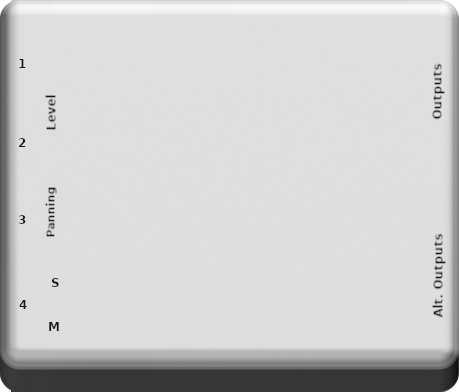
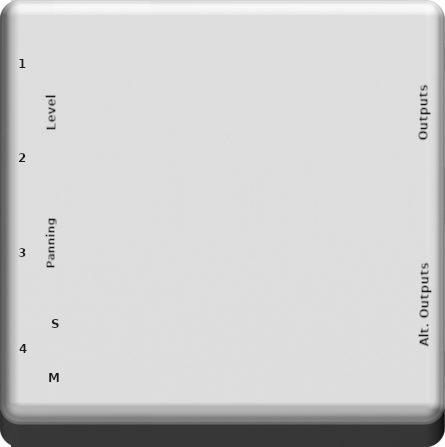
Update mixer to include level meter screens

diff --git a/plugins/mod-mixer.lv2/modgui/stylesheet-mod-mixer.css b/plugins/mod-mixer.lv2/modgui/stylesheet-mod-mixer.css
@@ -1,12 +1,12 @@
-/* MOD MIXER */
+/* MOD EQUALIZER */
 .mod-mixer{{{cns}}} {
     background-image: url(/resources/mod-mixer_bg.png{{{ns}}});
     background-position: center center;
     background-repeat: no-repeat;
     color: black;
-    height: 392px;
+    height: 447px;
     padding: 0;
-    width: 459px;
+    width: 445px;
     border-radius: 21px;
     position: absolute;
 }
@@ -35,21 +35,58 @@
     z-index: 20;
 }
 
+.mod-mixer{{{cns}}} .mod-control-group {
+    margin:2px 15px 0 !important;
+    position:relative;
+    text-align:center;
+    /*z-index:500 !important;*/
+}
+
+.mod-mixer{{{cns}}} .mod-display-group {
+    background-color: #aacc66;
+    margin: 0px 5px 0 0px !important;
+    position: relative;
+    text-align: center;
+    color: black;
+    box-shadow: 2px 2px 2px 0px #000 inset, -1px -1px 1px 1px #888 inset;
+    width: 60px;
+    height: 25px;
+    display: inline-block;
+}
+
+.mod-mixer{{{cns}}} .mod-display-group div {
+    padding:0;
+    line-height:1.25em;
+    vertical-align:middle;
+    display: inline-block;
+}
+
+.mod-mixer{{{cns}}} .mod-display-group .db {
+    font-size: 20px;
+    line-height: 1.5em;
+    width: 60px;
+    display: inline-block;
+    text-align: center;
+    z-index: 100;
+    margin: 0px 0 0px 0;
+}
+
+
 .mod-mixer{{{cns}}} .mod-pedal-input {
-    top:35px; */
+    top:37px; */
 }
 .mod-mixer{{{cns}}} .mod-pedal-input .mod-input:nth-child(2){
-    top:12px;
+    top:26px;
 }
 .mod-mixer{{{cns}}} .mod-pedal-input .mod-input:nth-child(3){
-    top:20px;
+    top:52px;
 }
 .mod-mixer{{{cns}}} .mod-pedal-input .mod-input:nth-child(4){
-    top:37px;
+    top:77px;
 }
 
 .mod-mixer{{{cns}}} .mod-pedal-output {
-    top:35px;
+    top:63px;
 }
 .mod-mixer{{{cns}}} .mod-pedal-output .mod-output:nth-child(2) {
     top: -5px;
@@ -63,14 +100,14 @@
 
 /* SLIDERS */
 .mod-mixer{{{cns}}} .mod-control-group-1 {
-    left: 63px;
+    left: 54px;
     position: absolute;
-    right: 56px;
+    right: 21px;
     top: 23px;
     z-index: 30;
 }
 .mod-mixer{{{cns}}} .mod-control-group .mod-slider {
-    height: 180px;
+    height: 157px;
     margin-right: 8px;
     position: relative;
     width: 60px;
@@ -88,6 +125,9 @@
     z-index: 40;
     box-sizing: content-box;
 }
+.mod-mixer{{{cns}}} .mod-control-group .mod-slider .mod-slider-title.alternative {
+    border-radius: 0;
+}
 .mod-mixer{{{cns}}} .mod-control-group .mod-slider .mod-slider-image-wrapper {
     background-color: rgb(235,199,38);
     border-radius: 0;
@@ -95,11 +135,15 @@
     position: relative;
     z-index: 30;
 }
+.mod-mixer{{{cns}}} .mod-control-group .mod-slider .mod-slider-image-wrapper.grey {
+    background-color: grey;
+}
+
 /* KNOBS */
 .mod-mixer{{{cns}}} .mod-control-group-2 {
-    left: 63px;
+    left: 54px;
     position: absolute;
-    top: 181px;
+    top: 211px;
     z-index: 30;
 }
 .mod-mixer{{{cns}}} .mod-control-group .mod-knob {
@@ -133,6 +177,24 @@
     margin-top: 1px;
     text-align: center;
 }
+
+/* DISPLAY group */
+.mod-mixer{{{cns}}} .mod-control-group-5 {
+    left: 33px;
+    position: absolute;
+    right: 2px;
+    top: 180px;
+    height: 45px;
+}
+
+.mod-mixer{{{cns}}} .mod-control-group-6 {
+    left: 326px;
+    position: absolute;
+    right: 28px;
+    top: 210px;
+    height: 45px;
+}
+
 /* FOOTSWITCH */
 .mod-mixer{{{cns}}} .mod-footswitch {
     background-image:url(/resources/footswitch.png{{{ns}}});
@@ -209,15 +271,15 @@
 }
 
 .mod-mixer{{{cns}}} .mod-control-group-3 {
-    left: 55px;
+    left: 44px;
     position: absolute;
-    top: 260px;
+    top: 298px;
 }
 
 .mod-mixer{{{cns}}} .mod-control-group-4 {
-    left: 55px;
+    left: 44px;
     position: absolute;
-    top: 303px;
+    top: 353px;
 }
 
 /* = BUTTONS

diff --git a/plugins/mod-mixer.lv2/modgui/icon-mod-mixer.html b/plugins/mod-mixer.lv2/modgui/icon-mod-mixer.html
@@ -28,7 +28,7 @@
         </div>
         <div class="mod-slider" mod-role="icon-button" mod-button-type="slider">
             <span class="mod-slider-title">M</span>
-            <div class="mod-slider-image-wrapper">
+            <div class="mod-slider-image-wrapper grey">
                 <div class="mod-slider-image" mod-role="input-control-port" mod-port-symbol="MasterVolume"></div>
             </div>
         </div>
@@ -71,7 +71,6 @@
         </div>
         <div class="mod-knob button" mod-role="switch" mod-button-type="knob">
             <div class="mod-button-image" mod-widget="switch" mod-role="input-control-port" mod-port-symbol="Solo4"></div>
-            <span class="mod-slider-title">S</span>
         </div>
     </div>
     <div class="mod-control-group mod-control-group-4 clearfix">
@@ -88,10 +87,45 @@
             <div class="mod-button-image" mod-widget="switch" mod-role="input-control-port" mod-port-symbol="Mute4"></div>
         </div>
     </div>
-    <div class="mod-footswitch" mod-role="bypass"></div>
-    <div class="mod-mixer-brand">
-        <span class="mod-light on" mod-role="bypass-light"></span>
-        <span class="mod-plugin-author">{{author}}</span>
+    <div class="mod-control-group mod-control-group-5 clearfix">
+        <div class="mod-display-group" mod-role="dpm1">
+            <div title="Output Digital Peak, rise-time: immediate, falloff: 15dB/sec">
+                <span class="db" mod-role="level1">0.0</span>
+            </div>
+        </div>
+        <div class="mod-display-group" mod-role="dpm2">
+            <div title="Output Digital Peak, rise-time: immediate, falloff: 15dB/sec">
+                <span class="db" mod-role="level2">0.0</span>
+            </div>
+        </div>
+        <div class="mod-display-group" mod-role="dpm3">
+            <div title="Output Digital Peak, rise-time: immediate, falloff: 15dB/sec">
+                <span class="db" mod-role="level3">0.0</span>
+            </div>
+        </div>
+        <div class="mod-display-group" mod-role="dpm4">
+            <div title="Output Digital Peak, rise-time: immediate, falloff: 15dB/sec">
+                <span class="db" mod-role="level4">0.0</span>
+            </div>
+        </div>
+        <div class="mod-display-group" mod-role="dpm5">
+            <div title="Output Digital Peak, rise-time: immediate, falloff: 15dB/sec">
+                <span class="db" mod-role="masterLevel">0.0</span>
+            </div>
+        </div>
+    </div>
+    <div class="mod-control-group mod-control-group-6 clearfix">
+        <div class="mod-slider" mod-role="icon-button" mod-button-type="slider">
+            <span class="mod-slider-title alternative">A</span>
+            <div class="mod-slider-image-wrapper grey">
+                <div class="mod-slider-image" mod-role="input-control-port" mod-port-symbol="AltVolume"></div>
+            </div>
+        </div>
+        <div class="mod-display-group" mod-role="dpm6">
+            <div title="Output Digital Peak, rise-time: immediate, falloff: 15dB/sec">
+                <span class="db" mod-role="altLevel">0.0</span>
+            </div>
+        </div>
     </div>
     <div class="mod-pedal-input">
         {{#effect.ports.audio.input}}

diff --git a/plugins/mod-mixer.lv2/modgui/script-mod-mixer.js b/plugins/mod-mixer.lv2/modgui/script-mod-mixer.js
@@ -1,0 +1,99 @@
+//used x42-tinygain plugin as reference for LED lights
+
+function (event) {
+
+	function to_db (value) {
+		if (value < 0.000001) {
+			return "-inf";
+		}
+		return (20 * Math.log10 (value)).toFixed(1);
+	}
+
+	function highlight (c, dpm) {
+		var old = dpm.data ('xBgColor');
+		if (old == c) {
+			return;
+		}
+		switch (c) {
+			case 4:
+				dpm.css({backgroundColor: '#ff4400'});
+				break;
+			case 3:
+				dpm.css({backgroundColor: '#dd6622'});
+				break;
+			case 2:
+				dpm.css({backgroundColor: '#ccaa66'});
+				break;
+			case 1:
+				dpm.css({backgroundColor: '#88ff66'});
+				break;
+			default:
+				dpm.css({backgroundColor: '#aacc66'});
+				break;
+		}
+		dpm.data ('xBgColor', c);
+	}
+
+    function set_higlight_value(db, value, dpm) {
+        if (db < -18 || value < 0.000001) {
+            highlight (0, dpm);
+        } else if (db < -3) {
+            highlight (1, dpm);
+        } else if (db < -1) {
+            highlight (2, dpm);
+        } else if (db < 0) {
+            highlight (3, dpm);
+        } else {
+            highlight (4, dpm);
+        }
+    }
+
+	function handle_event (symbol, value) {
+		switch (symbol) {
+			case 'PostFader1Level':
+				var db = to_db(value);
+                set_higlight_value(db, value, event.icon.find ('[mod-role=dpm1]'));
+				event.icon.find ('[mod-role=level1]').text (db);
+				break;
+			case 'PostFader2Level':
+				var db = to_db(value);
+                set_higlight_value(db, value, event.icon.find ('[mod-role=dpm2]'));
+				event.icon.find ('[mod-role=level2]').text (db);
+				break;
+			case 'PostFader3Level':
+				var db = to_db(value);
+                set_higlight_value(db, value, event.icon.find ('[mod-role=dpm3]'));
+				event.icon.find ('[mod-role=level3]').text (db);
+				break;
+			case 'PostFader4Level':
+				var db = to_db(value);
+                set_higlight_value(db, value, event.icon.find ('[mod-role=dpm4]'));
+				event.icon.find ('[mod-role=level4]').text (db);
+				break;
+			case 'MasterMonitorLevel':
+				var db = to_db(value);
+                set_higlight_value(db, value, event.icon.find ('[mod-role=dpm5]'));
+				event.icon.find ('[mod-role=masterLevel]').text (db);
+				break;
+			case 'AltMonitorLevel':
+				var db = to_db(value);
+                set_higlight_value(db, value, event.icon.find ('[mod-role=dpm6]'));
+				event.icon.find ('[mod-role=altLevel]').text (db);
+				break;
+			default:
+				break;
+		}
+	}
+
+	if (event.type == 'start') {
+		var dpm = event.icon.find ('[mod-role=dpm]');
+		dpm.data ('xBgColor', 0);
+		var ports = event.ports;
+		for (var p in ports) {
+			handle_event (ports[p].symbol, ports[p].value);
+		}
+	}
+	else if (event.type == 'change') {
+		handle_event (event.symbol, event.value);
+	}
+}
